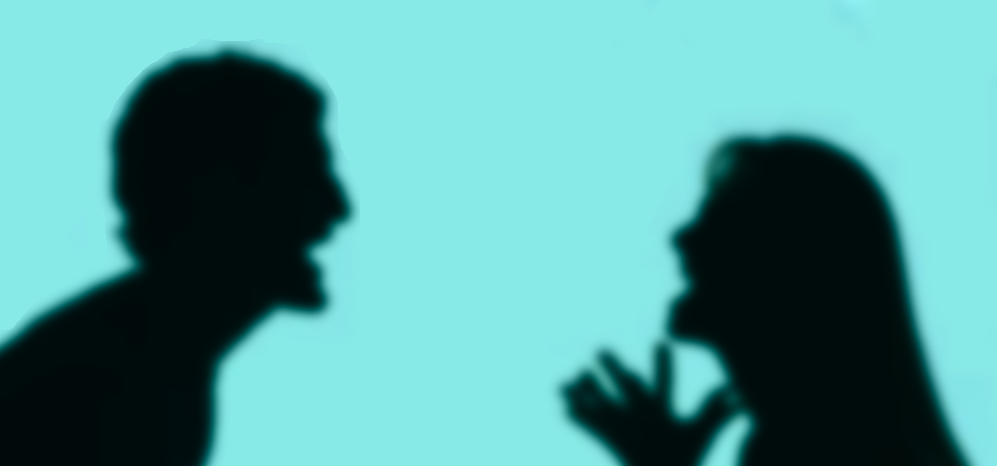
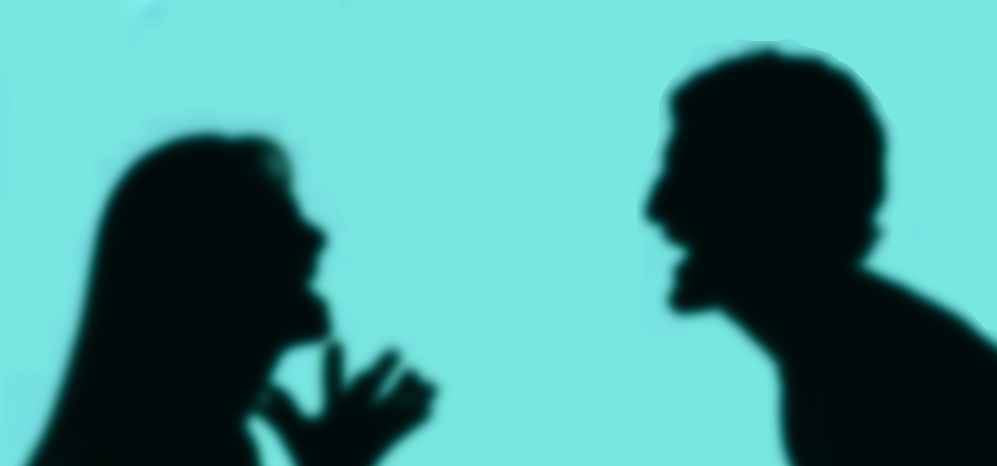
restructure

diff --git a/index.html b/index.html
@@ -32,9 +32,9 @@
 
 		<!-- Intro -->
 			<section id="intro" class="main style1 dark fullscreen">
-				<div class="content container 75%">
+				<div class="content container 90%">
 					<header>
-						<img src="images/logo.png"/>
+						<img src="images/logo-1.png"/>
 						<h2>Hacker's Explosion</h2>
 					</header>
 					<p>Pragmatic and romantic developers conference</p>
@@ -56,16 +56,17 @@
 					<br><br>
 					today's open source nature of software development brings us to the variety of implementation options for all kinds of tasks. The idea of the conference is to create the environment for critical thinking in architecture and pragmatic process in making technical decisions. The price of the mistake today is way too big to rely on random or insufficiently investigated technologies - we can only start feeling determined after thoroughly comparing and analyzing the alternative solutions.</p>
 				</div>
-				<a href="#two" class="button style2 down anchored">Next</a>
+				<a href="#onetwo" class="button style2 down anchored">Next</a>
 			</section>
 
-		<!-- Two -->
-			<section id="two" class="main style2 left dark fullscreen">
+		<!-- One Two -->
+			<section id="onetwo" class="main style2 right dark fullscreen">
 				<div class="content box style2">
 					<header>
-						<h2>conference dates and venue</h2>
+						<h3 style="font-size:30px;">What is Hacker’s Explosion Really?</h2>
 					</header>
-					<p>the first occurrence of the conference is going to be in 2017 in Portland. Details coming soon.</p>
+					<br>
+					<p style="font-size:17px;"></p>
 				</div>
 				<a href="#three" class="button style2 down anchored">Next</a>
 			</section>
@@ -78,8 +79,21 @@
 					</header>
 					<p>Technical, of course.</p>
 				</div>
+				<a href="#two" class="button style2 down anchored">Next</a>
+			</section>
+
+		<!-- Two -->
+			<section id="two" class="main style2 left dark fullscreen">
+				<div class="content box style2">
+					<header>
+						<h2>conference dates and venue</h2>
+					</header>
+					<p>the first occurrence of the conference is going to be in 2017 in Portland. Details coming soon.</p>
+				</div>
 				<a href="#work" class="button style2 down anchored">Next</a>
 			</section>
+
+
 
 		<!-- Work -->
 			<section id="work" class="main style3 primary">

diff --git a/assets/css/main.css b/assets/css/main.css
@@ -2281,10 +2281,12 @@
 		}
 
 			.main.style1 h2 {
-				font-size: 4.25em;
+				font-size: 3.25em;
 				line-height: 1em;
-				color: black;
-				letter-spacing: 2px;
+				color: rgba(255, 255, 255, 0.85);
+				letter-spacing: 7px;
+				/*letter-spacing: -0.3px;
+				text-shadow: 0 0 2px purple;*/
 			}
 
 			.main.style1:before {
@@ -2403,8 +2405,8 @@
 			}
 
 #intro p {
-	color: black;
-	/*text-shadow: 0 0 3px white;*/
+	color: rgba(255, 255, 255, 0.85);
+	letter-spacing: 2px;
 }
 
 #intro p a {
@@ -2830,11 +2832,11 @@
 		left: 0;
 		top: 0;
 		width: 100%;
-		background: #fff;
-		background: rgba(255, 255, 255, 0.95);
+		background: rgba(0, 0, 0, 0.95);
 		height: 3em;
 		line-height: 3em;
 		box-shadow: 0 0 0.15em 0 rgba(0, 0, 0, 0.1);
+		color:white;
 	}
 
 	body {
@@ -2885,7 +2887,7 @@
 /* Intro */
 
 	#intro {
-		background:  url("../../images/screamingpeopleblurteal.png");
+		background:  url("../../images/colors.jpg");
 		background-size:  cover;
 		background-attachment: fixed, fixed;
 		background-position: bottom center;
@@ -2899,6 +2901,15 @@
 		background-size: 256px 256px, cover;
 		background-attachment: fixed, fixed;
 		background-position: top left, center center;
+	}
+
+/* Onetwo */
+
+	#onetwo {
+		background: url("../../images/screamingpeopleblurteal.png");
+		background-size: cover;
+		background-attachment: fixed;
+		background-position: center center;
 	}
 
 /* Two */
